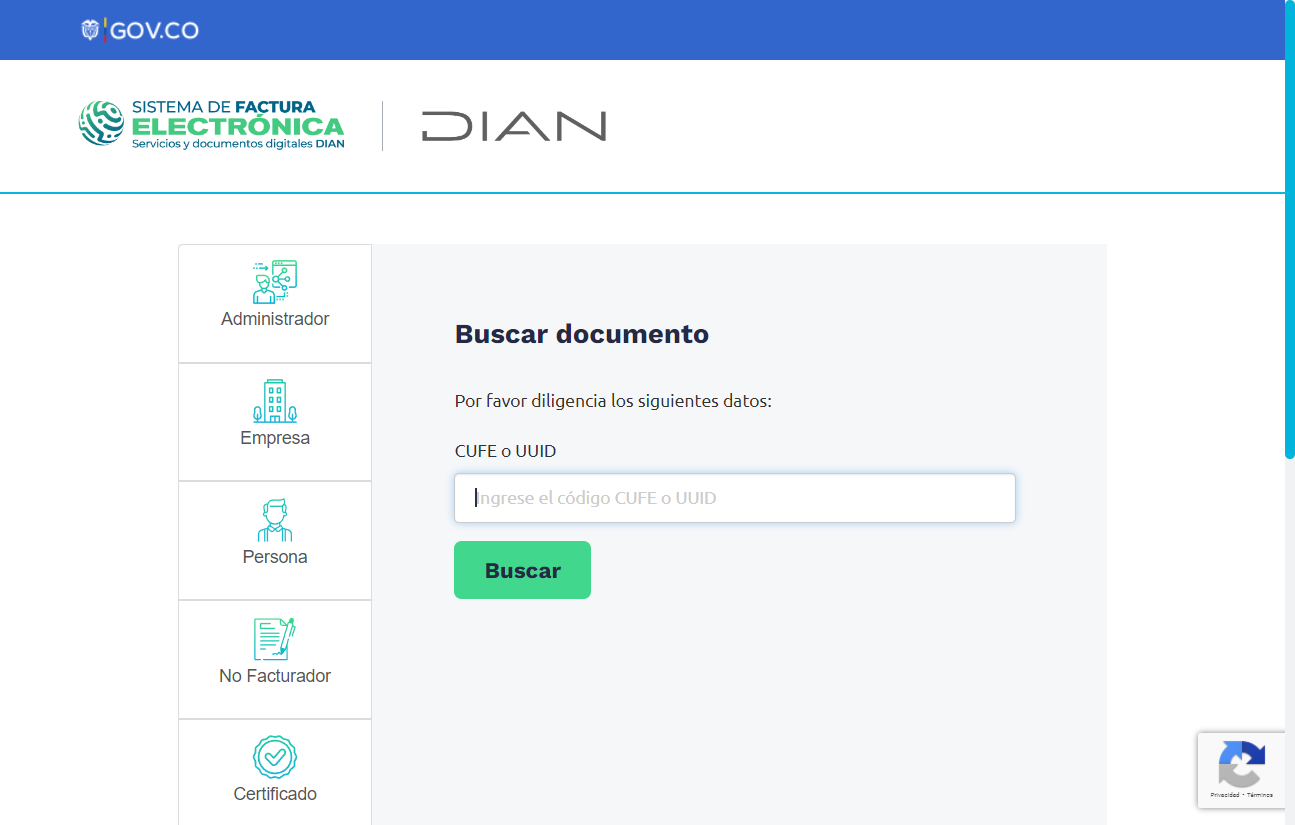
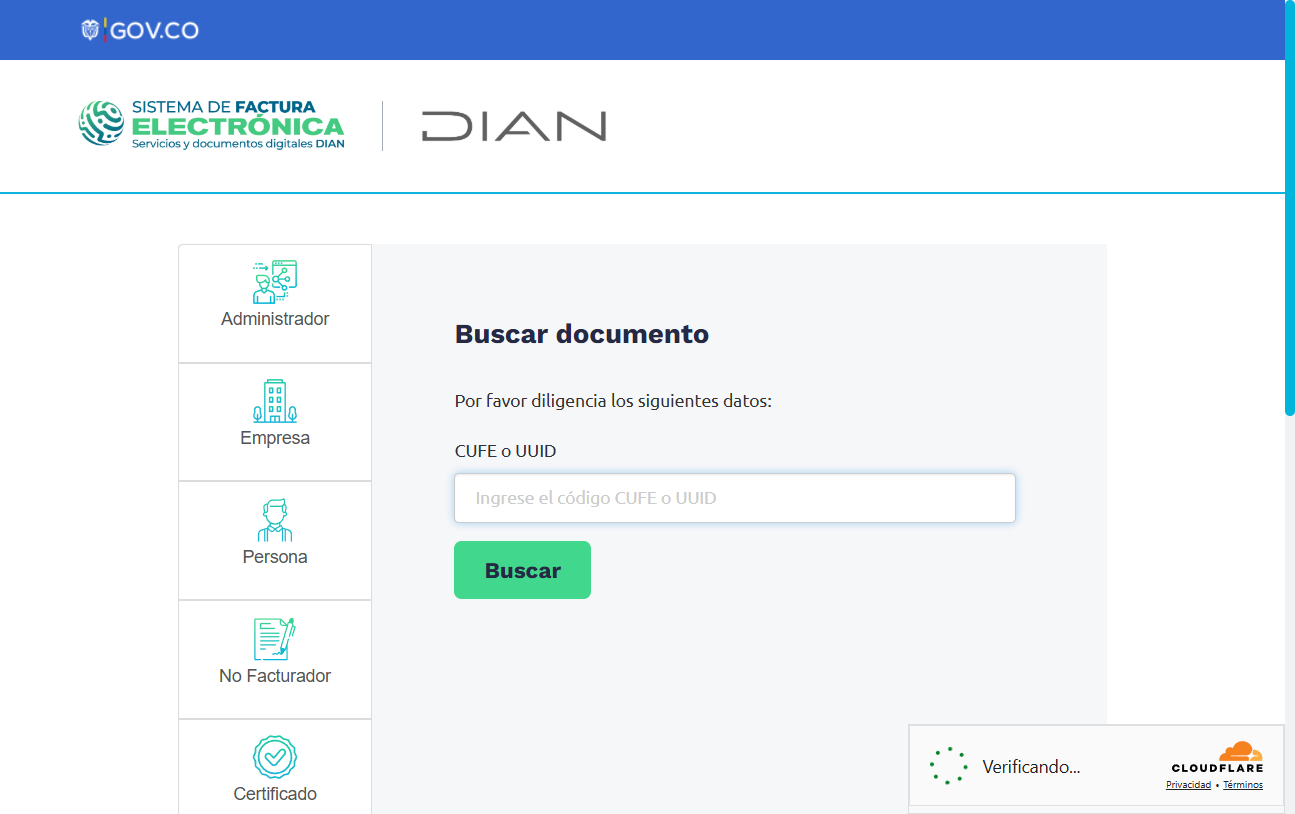
[add] added 2captcha method

diff --git a/backend/src/utils/webScraper.py b/backend/src/utils/webScraper.py
@@ -3,6 +3,8 @@ from selenium.webdriver.common.by import By
 from selenium.webdriver.common.action_chains import ActionChains
 from selenium.webdriver.chrome.options import Options
 from selenium.webdriver.chrome.service import Service as ChromeService
+from selenium.webdriver.support.ui import WebDriverWait
+from selenium.webdriver.support import expected_conditions as EC
 from src.utils.logs_config import set_logs_configuration
 from selenium.webdriver.common.action_chains import ActionChains
 import logging
@@ -10,142 +12,154 @@ import platform
 import random
 import re
 import time
-
+import requests
+from dotenv import load_dotenv
+import os
 
 class ScraperSelenium():
 
-    def __init__(self, webpage_url:str) -> None:
-
+    def __init__(self, webpage_url:str, two_captcha_api_key:str = None) -> None:
         self.webpage_url = webpage_url
         self.pattern_nit = r'[^0-9]'
         self.date_pattern = r"\b(19\d\d|20\d\d)[-/](0[1-9]|1[0-2])[-/](0[1-9]|[12]\d|3[01])\b"
-        self.attempts = 10
+        self.attempts = 3  # Reducido porque ahora usaremos 2Captcha
+        self.two_captcha_api_key = two_captcha_api_key
+        self.cloudflare_sitekey = "0x4AAAAAAAg1WuNb-OnOa76z"  # Sitekey de Cloudflare Turnstile
 
-    def find_dane_elements(self,cufe:str):
+    def solve_captcha_with_2captcha(self):
+        """Resuelve el captcha usando el servicio 2Captcha"""
+        if not self.two_captcha_api_key:
+            raise ValueError("API key de 2Captcha no proporcionada")
+        
+        # URL de la página para obtener el parámetro data-action
+        page_url = self.webpage_url
+        
+        # Enviamos la solicitud a 2Captcha
+        s = requests.Session()
+        captcha_params = {
+            'key': self.two_captcha_api_key,
+            'method': 'turnstile',
+            'sitekey': self.cloudflare_sitekey,
+            'pageurl': page_url,
+            'json': 1
+        }
+        
+        try:
+            # Enviar la solicitud para resolver el captcha
+            response = s.post('http://2captcha.com/in.php', data=captcha_params)
+            request_id = response.json().get('request')
+            
+            if not request_id:
+                logging.error(f"Error al enviar captcha a 2Captcha: {response.text}")
+                return None
+                
+            # Esperar la solución
+            for _ in range(30):  # Máximo 30 intentos (30 segundos)
+                time.sleep(1)  # Esperar 1 segundo entre intentos
+                result = s.get(f'http://2captcha.com/res.php?key={self.two_captcha_api_key}&action=get&id={request_id}&json=1').json()
+                
+                if result.get('status') == 1:
+                    return result.get('request')  # Token de solución
+                    
+            logging.error("Tiempo de espera agotado para 2Captcha")
+            return None
+            
+        except Exception as e:
+            logging.error(f"Error al resolver captcha con 2Captcha: {e}")
+            return None
 
+    def find_dane_elements(self, cufe:str):
         set_logs_configuration()
-
-        # Contador de intentos
-
         count = 0
 
-        # En caso de tranajar en docker o local se hará una configuración diferente
-
         if platform.system() == "Linux":
-            # Setup Chrome options
             chrome_options = Options()
             chrome_options.add_argument("--headless")
             chrome_options.add_argument("--no-sandbox")
             chrome_options.add_argument("--disable-dev-shm-usage")
-            chrome_options.add_argument("--disable-gpu")  # This is important for some versions of Chrome
-            chrome_options.add_argument("--remote-debugging-port=9222")  # This is recommended
-
-            # Set path to Chrome binary
+            chrome_options.add_argument("--disable-gpu")
+            chrome_options.add_argument("--remote-debugging-port=9222")
             chrome_options.binary_location = "/opt/chrome/chrome-linux64/chrome"
-
-            # Set path to ChromeDriver
             chrome_service = ChromeService(executable_path="/opt/chromedriver/chromedriver-linux64/chromedriver")
-
-            # Set up driver
             driver = webdriver.Chrome(service=chrome_service, options=chrome_options)
-        
         else:
-             driver = webdriver.Chrome() 
+            driver = webdriver.Chrome() 
 
         try:
-            # Se accede a la pagina
             driver.get(self.webpage_url)
-
-            # Se simula un tiempo de espera
-            time.sleep(random.randint(0,2))
+            time.sleep(random.randint(1, 3))
             
-            # Find input text field
+            # Ingresar el CUFE
             input_text_fname = driver.find_element(By.ID, 'DocumentKey')
-            
-            # Take a screenshot before entering a value
-            driver.save_screenshot("screenshot-1.png")
-
-            # Enter a value in the input text field
             input_text_fname.send_keys(cufe)
-
-            actions = ActionChains(driver)
-
-            # Se realiza varios intentos para vencer el Captcha
-            while driver.current_url == self.webpage_url:
-                actions.move_by_offset(random.randint(1, 10), random.randint(1, 10)).perform()
-                button = driver.find_element(By.CLASS_NAME, 'btn.btn-primary.search-document.margin-top-40')
+            
+            # Resolver el captcha con 2Captcha
+            captcha_token = self.solve_captcha_with_2captcha()
+            if not captcha_token:
+                logging.error("No se pudo resolver el captcha con 2Captcha")
+                driver.quit()
+                return None, None, None, None, None, None
                 
-                
-                time.sleep(abs(random.gauss(1,2)))
-                
-                button.click()
+            # Inyectar el token de solución en la página
+            try:
+                wait = WebDriverWait(driver, 10)
+                captcha_element = wait.until(
+                    EC.presence_of_element_located((By.CSS_SELECTOR, 'input[name="cf-turnstile-response"]'))
+                )
+                driver.execute_script(f'arguments[0].value = "{captcha_token}";', captcha_element)
+            except Exception as e:
+                logging.error(f"No se pudo encontrar/inyectar el elemento del captcha: {e}")
+                raise
+            
+            # Hacer clic en el botón de búsqueda
+            button = driver.find_element(By.CLASS_NAME, 'btn.btn-primary.search-document.margin-top-40')
+            button.click()
+            
+            # Esperar a que la página cargue (máximo 10 segundos)
+            for _ in range(10):
+                if driver.current_url != self.webpage_url:
+                    break
+                time.sleep(1)
+            else:
+                logging.warn("No se pudo pasar la página de captcha")
+                driver.quit()
+                return None, None, None, None, None, None
 
-                driver.implicitly_wait(3)
-
-                # Si falla retorna none
-                if count >= self.attempts:
-
-                    logging.warn("the scrapper is not able to pass the first page. Incorrect cufe or impossible to bit the reCAPTCHA")
-  
-                    return None, None, None, None, None, None
-                
-                count = 1 + count
-
-            # Se obtiene los valores buscados
+            # Obtener los datos de la página de resultados
             text = driver.find_elements(By.CLASS_NAME, 'col-md-4')
             table = driver.find_elements(By.CLASS_NAME, "table-responsive")
             download = driver.find_element(By.CLASS_NAME, "downloadPDFUrl")
-
-            # Se toma el link de descarga del pdf
             link = download.get_property('href')
         
-            # Se convierte en una lista cada palabra capturada 
             emisor_list = text[1].text.split(" ") 
             receptor_list = text[2].text.split(" ")
 
-            # La cuarta posición se extrae solo los números
             emisor_nit = re.sub(self.pattern_nit, "", emisor_list[3])
             receptor_nit = re.sub(self.pattern_nit, "", receptor_list[3])
 
-            # A partir de la 5 se usauna función que vuelve a unir todo en un solo string
             emisor_name = self._join_name(emisor_list[4:])
             receptor_name = self._join_name(receptor_list[4:])
 
-            # Función que separa cada evento
             events = self._look_for_events(table[1].text.split())
             
-
             driver.quit()
-
             return link, emisor_nit, emisor_name, receptor_nit, receptor_name, events
         
         except Exception as e:
-
-            logging.error(f"unexpect error in Scraping {e}")
-            raise(Exception)
+            logging.error(f"Error inesperado en el scraping: {e}")
+            driver.quit()
+            raise Exception(e)
             
-
     def _look_for_events(self, table:list):
-
         events = []
-
-        # Se compone de tres estados:
-        # El primero busca el número del evento
-        # La siguiente concatena todo el texto hasta encontrar una fecha
-        # El ultimo busca la palabra detalle para saber que finalizó con el evento
-
         state0 = 1
         state1 = 0
         state2 = 0
-
         patron_numeros = r'^\d+$'
-
         number_event = ""
         type_of_event = ""
 
- 
         for i in table[9:]:
-
             num = re.match(patron_numeros, i)
 
             if num != None and state0 == 1:
@@ -155,7 +169,6 @@ class ScraperSelenium():
                 state2 = 0
 
             if state1 == 1 and i != number_event:
-
                 if re.search(self.date_pattern, i):
                     state2 = 1
                     state1 = 0
@@ -164,38 +177,29 @@ class ScraperSelenium():
                     type_of_event += i + " "
             
             if state2 == 1 and i == "detalle":
-                 
-                 events.append(
-                     {
-                        "eventNumber":number_event,
-                         "eventName":type_of_event
-                     }
-                 )
-                 number_event = ""
-                 type_of_event = ""
-
-                 state0 = 1
-                 state1 = 0
-                 state2 = 0
+                events.append({
+                    "eventNumber": number_event,
+                    "eventName": type_of_event
+                })
+                number_event = ""
+                type_of_event = ""
+                state0 = 1
+                state1 = 0
+                state2 = 0
 
         return events
         
     def _join_name(self, name:list):
+        return " ".join(name)
 
-        full_sentence = ""
-        
-        for word in name:
-            
-            full_sentence += word + " "
+if __name__ == "__main__":
+    # Ejemplo de uso con 2Captcha
+    load_dotenv()
+    API_KEY_2CAPTCHA = os.environ.get("API_KEY_2CAPTCHA")
 
-        return full_sentence
-
-
-        
+    scraper = ScraperSelenium(
+        "https://catalogo-vpfe.dian.gov.co/User/SearchDocument",
+        two_captcha_api_key=API_KEY_2CAPTCHA
+    )
     
-if "__main__"== __name__:
-
-    scraper = ScraperSelenium("https://catalogo-vpfe.dian.gov.co/User/SearchDocument")
-
[1 lines of base64/hex data omitted]
-

diff --git a/readme.md b/readme.md
@@ -5,40 +5,42 @@
 
 # DIAN scraper API  ✒
 
-Esta API tiene como objetivo poner el practica los conocimientos en python, realizando un raspado web a la aplicación de la DIAN para obtener facturas electrónicas por medios del código cufe.
+This API is designed to put Python knowledge into practice by performing web scraping on the DIAN (Colombian Tax Authority) application to obtain electronic invoices using the CUFE code.go cufe.
 
 
-# Estructura del proyecto 📁
-El proyecto se compone en las siguientes carpetas:
+# Project Structure 📁
+The project is organized into the following folders:
 
-- `backend`: Contiene el webscraper y el archivo docker para crear la imagen.
-
-
-- `docker_compose`:  Contiene el docker-compose para lanzar el servicio.
+- `backend`: Contains the web scraper and the Dockerfile for building the image.
 
 
-# Iniciando la API en docker 🐋
+- `docker_compose`:  Contains the docker-compose file to launch the service.
 
-## Creando imagen
-Para poder desplegar el servicio se debe ir a la carpeta de `backend` e insetar el siguiente comando con el fin de crear la imagen:
 
+# Running the API with Docker 🐋
+
+## Creating the image
+To deploy the service, navigate to the backend folder and run the following command to build the image:
 ```bash
     docker build -t flask-dane-scraper:v1.0.0 .
 ```
-## Lanzado contenedor 🐳
-Para iniciar el docker compose se debe ingresar a la carpeta `docker_compose` y escribir el siguiente comando:
+## Launching the container 🐳
+
+To start the docker-compose service, go to the docker_compose folder and run the following command
 
 ```bash
     docker-compose -f docker-compose-local.yml -p "my-scraper" up -d
 ```
 
-# Posibles mejoras📝
+# Possible Improvements📝
 
-- Para optimizar en velocidad se podría probar no iniciar un dirver de google por cada Cufe, sin embargo para evitar posibles errores y perder el progreso de cada scraper mejor se optó por otra aproximación
+-To improve speed, you could avoid starting a new Google Chrome driver for each CUFE. However, to prevent potential errors and losing scraper progress, a different approach was chosen.
 
-- Se necesita un método mejor para vencer el recaptcha. Por ahora se hace a fuerza bruta, sin embargo para volumenes de datos grandes esto no es viable.
 
-# Links de interés 🔗
-- [Documentanción de Selenium](https://www.selenium.dev/documentation/)
+# Useful Links🔗
+- [Selenium Documentation](https://www.selenium.dev/documentation/)
 
-- [Foro con la solución para instalar chrome en docker](https://gist.github.com/varyonic/dea40abcf3dd891d204ef235c6e8dd79)
+- [Forum post with solution for installing Chrome in Docker](https://gist.github.com/varyonic/dea40abcf3dd891d204ef235c6e8dd79)
+
+- [2Captcha – Automated reCAPTCHA Solver](https://2captcha.com/)
+
